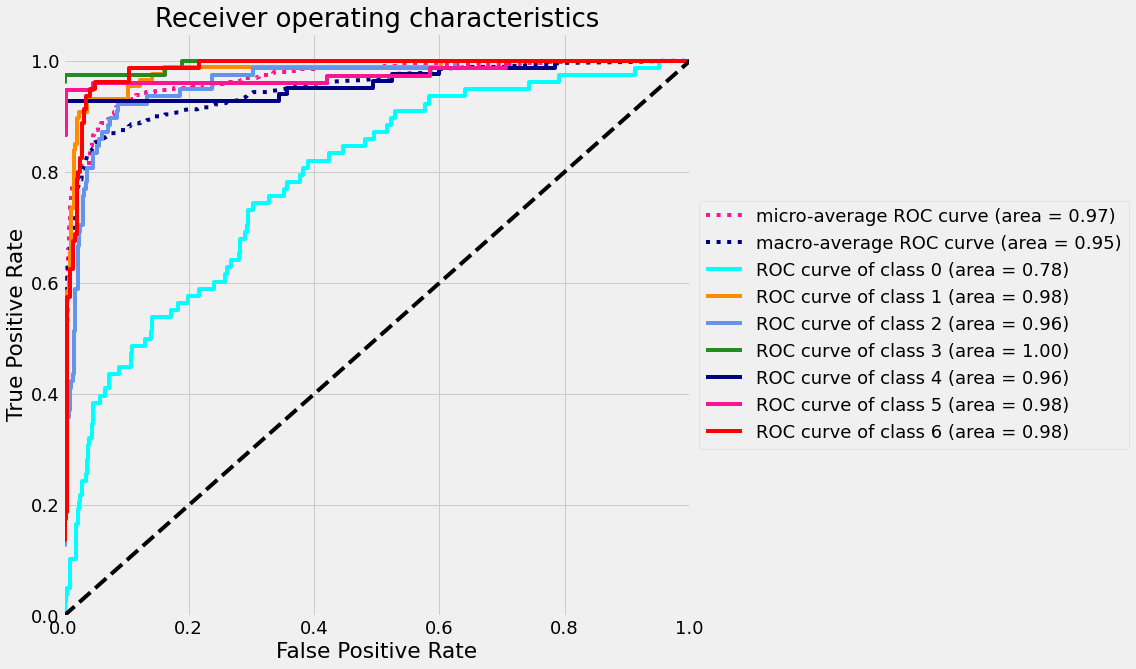
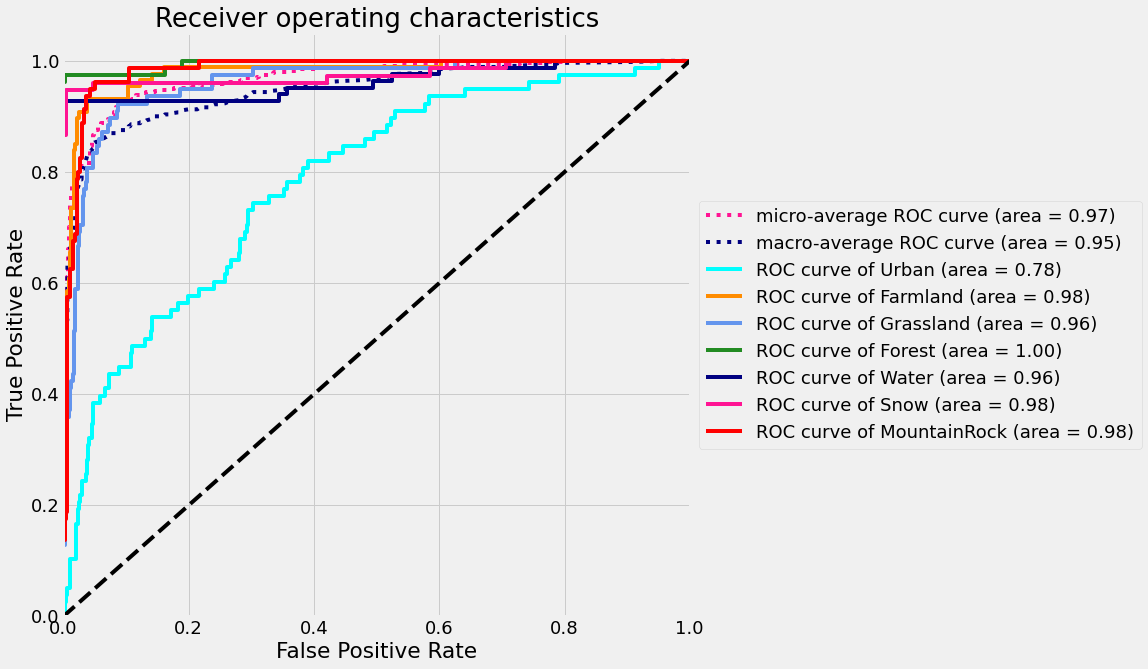
Updated Plots

diff --git a/SatelliteRandomForest.py b/SatelliteRandomForest.py
@@ -262,7 +262,7 @@ for i, color in zip(range(n_classes), colors):
         tpr[i],
         color=color,
         # lw=lw,
-        label="ROC curve of class {0} (area = {1:0.2f})".format(i, roc_auc[i]),
+        label="ROC curve of {0} (area = {1:0.2f})".format(target_names[i], roc_auc[i]),
     )
 
 # plt.plot([0, 1], [0, 1], "k--", lw=lw)
